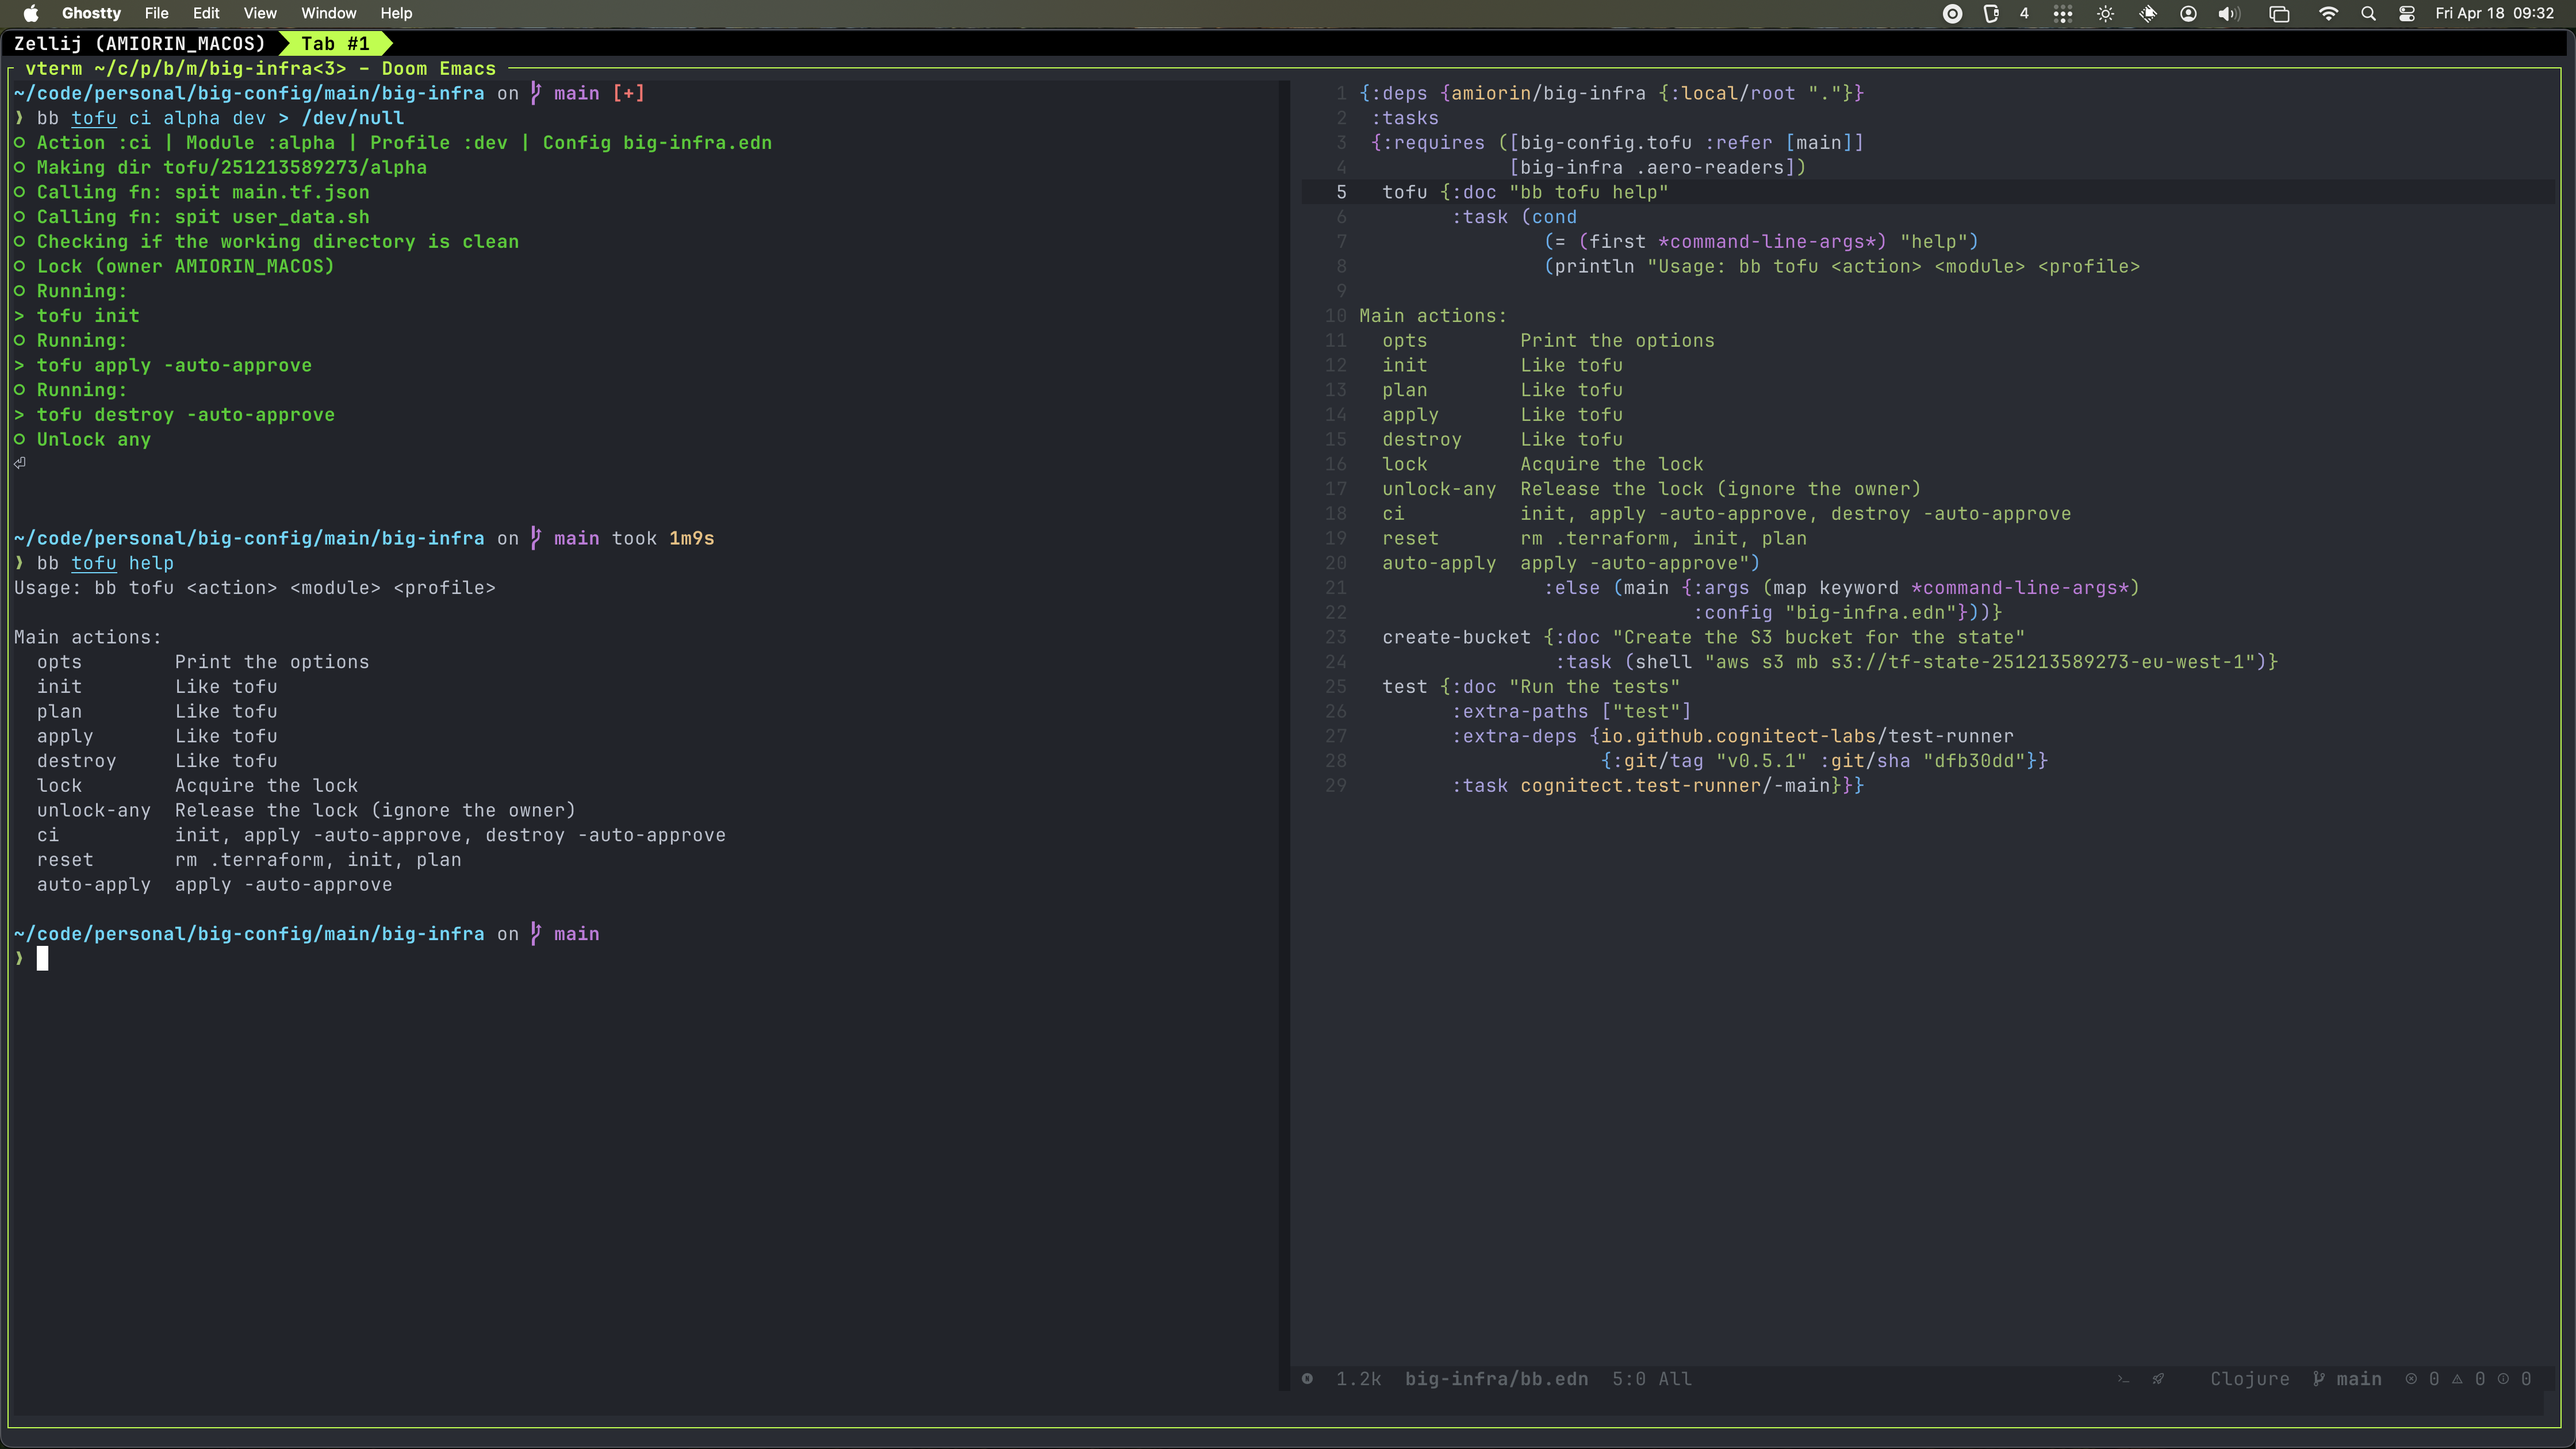
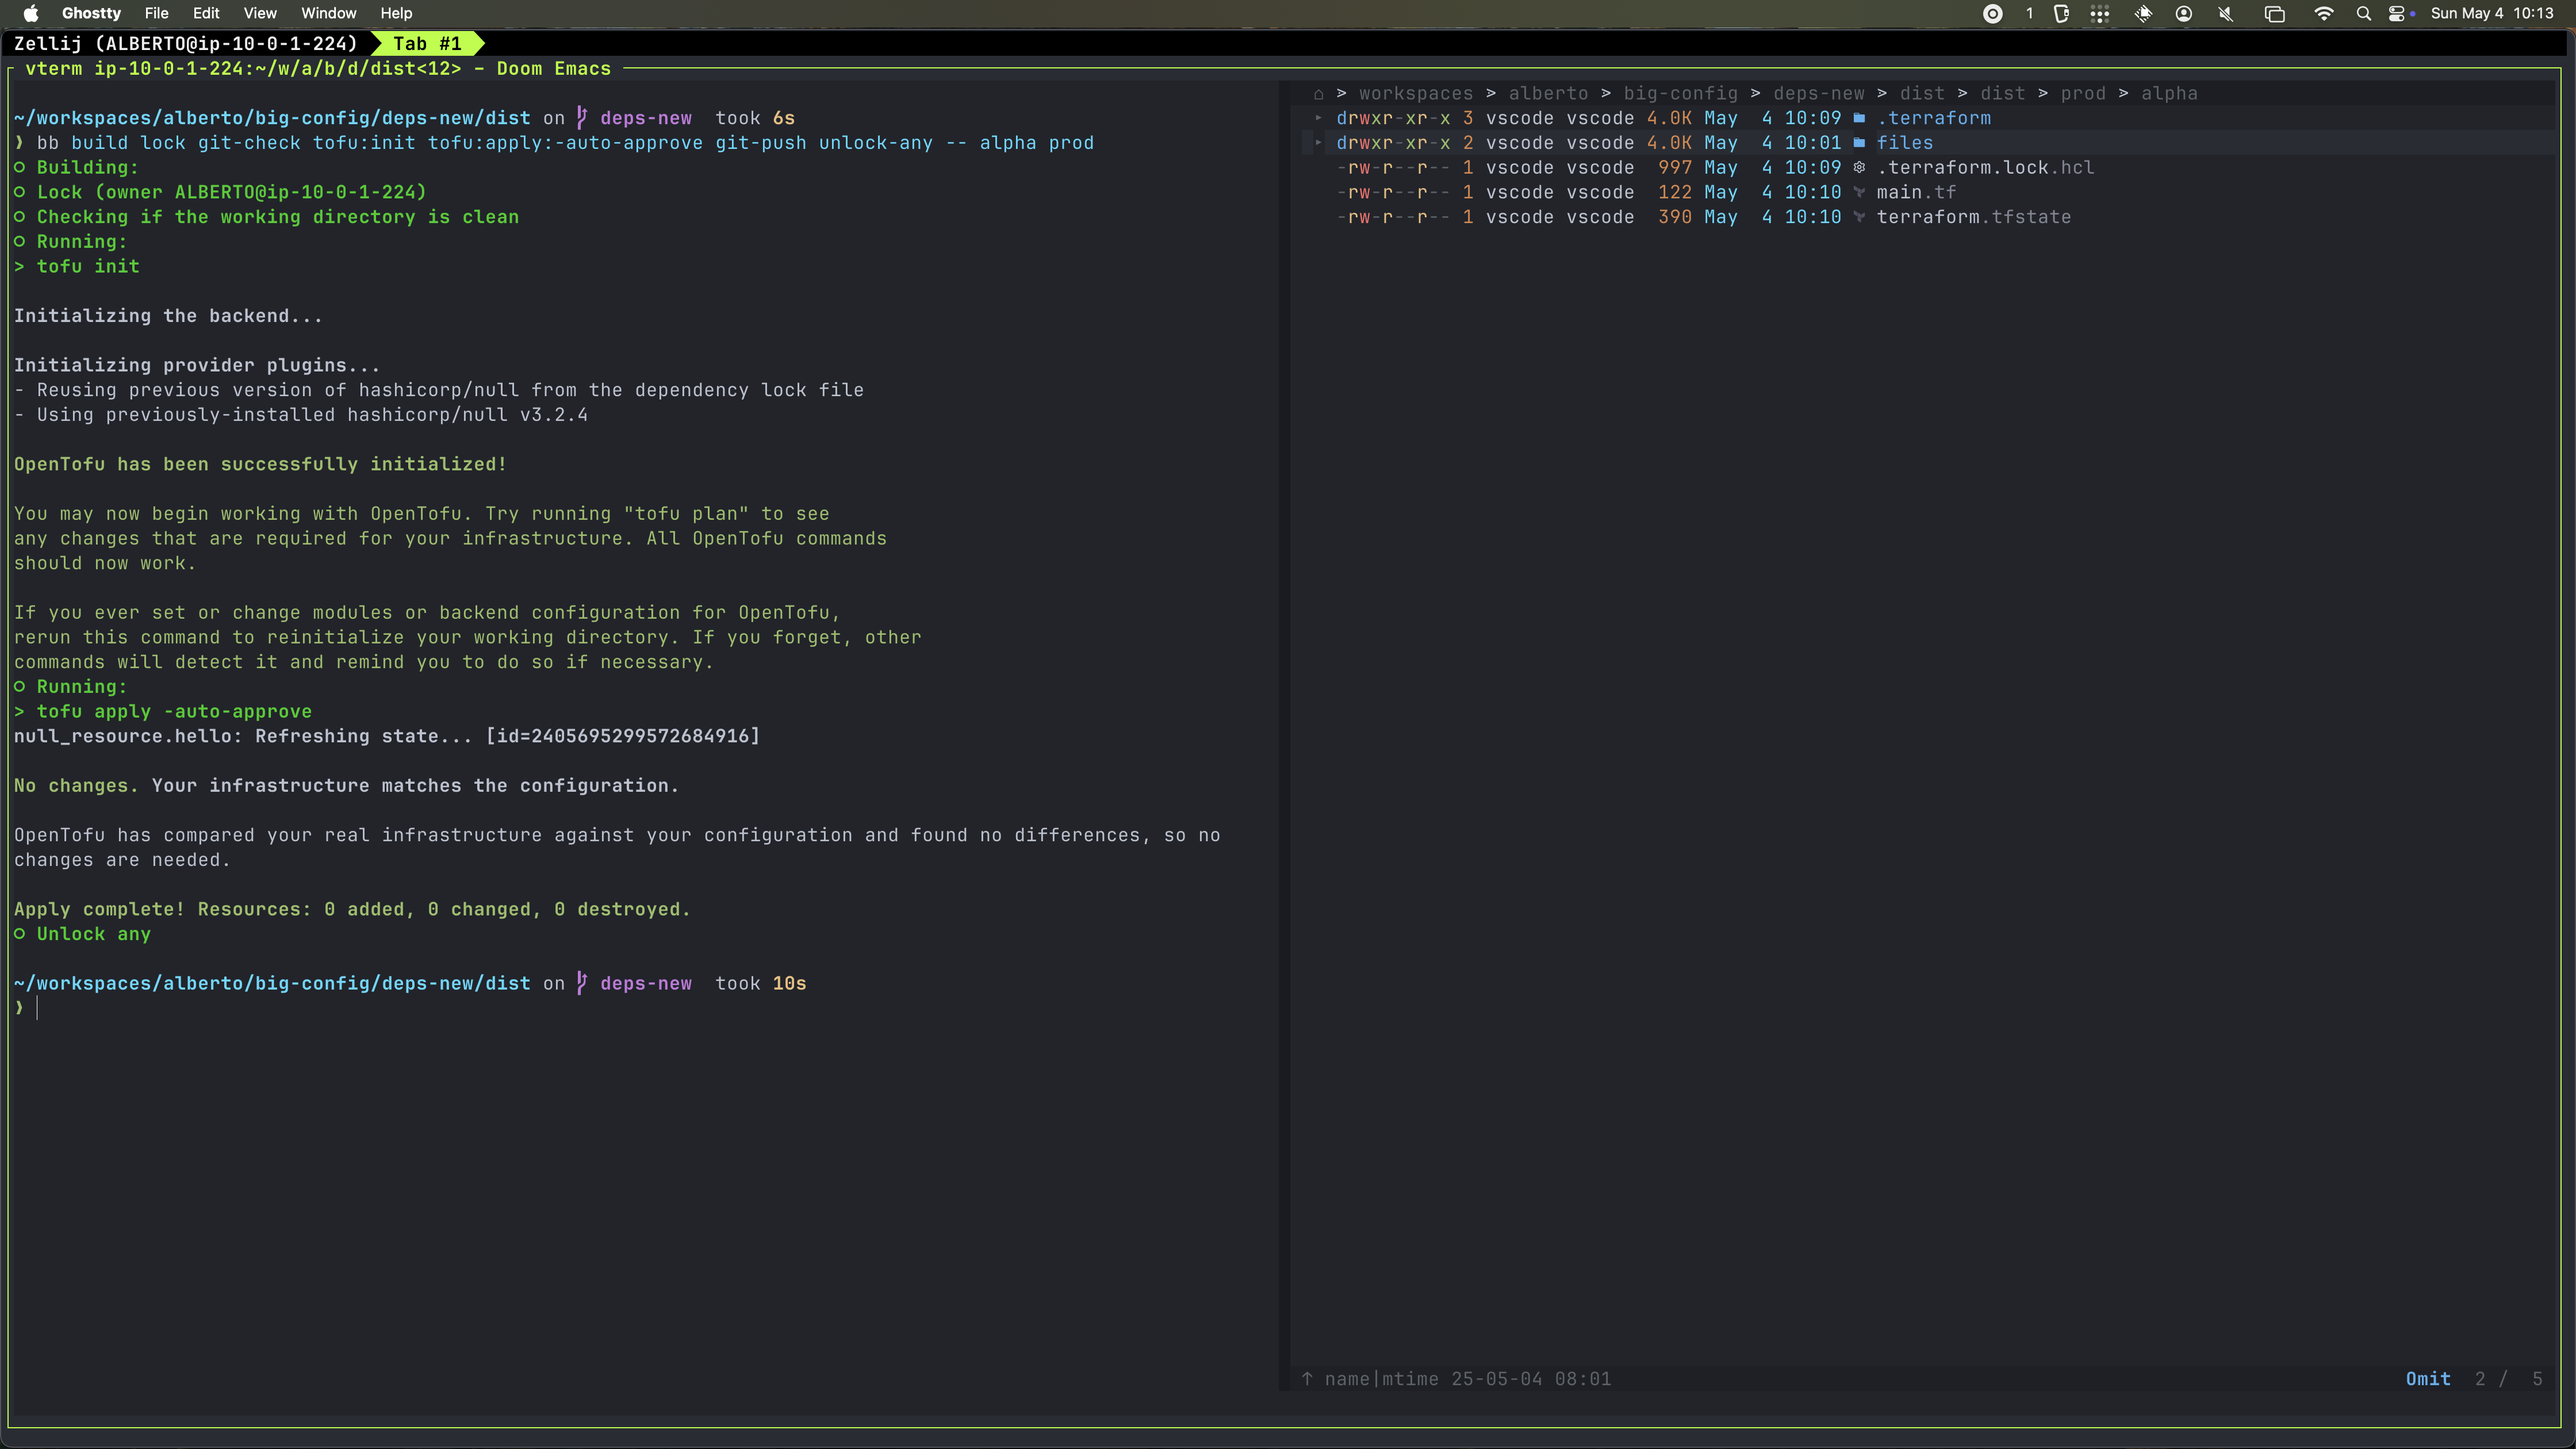
feat: big-config v3

diff --git a/README.md b/README.md
@@ -4,55 +4,52 @@
 
 `big-config` is an alternative to traditional configuration languages, schema languages, and workflow engines for operations. Its goal is to replace solutions like: `atlantis`, `cdk`, `helm`, `hcl`, `jsonschema`, `yaml`, `toml`, `json`, `aws step functions`, `kustomize`, `argocd`, `pkl`, `cud`, `dhall`, `jsonet`, `make`.
 
-At the moment, it can be used to replace `atlantis` and `cdk`.
+It can be used to add a `build` step to any `devops` tool and it provides solutions for common problems in `devops` like `workflow` and `lock`.
 
 ![screenshot](https://raw.githubusercontent.com/amiorin/big-config/main/screenshot.png)
 
 ## Screenshot
-`bb tofu ci alpha dev` is a workflow implemented in `big-config` and invoked using `babashka`. `ci` is the action to trigger the `continuous integration` of the module `alpha`. `alpha` is responsible for creating some AWS resources, and `dev` is the profile used for development.
-
-### Steps executed
-* Load and validate the configuration.
-* Compile the `main.tf.json` (like `cdk`).
-* Check that the working directory is clean.
-* Lock module `alpha` for profile `dev`.
-* Run `tofu init|apply|destroy`.
-* Unlock module `alpha` for profile `dev`.
+`bb build lock git-check tofu:init tofu:apply:-auto-approve git-push unlock-any -- alpha prod` is a workflow defined in the command line using `big-config` and invoked using `babashka`. The `build` step will use `deps-new` to generate the `tofu` module `alpha` with profile `prod`. The `lock` step will acquire a lock to make sure that we are the only one running like `atlantis`. The `git-check` step will make sure that our working directory is clean and not behind `origin`. The `tofu:init` step will run `tofu init` in the `target-dir`. The `tofu:apply:-auto-approve` step will run `tofu apply -auto-approve` in the `target-dir`. The `git-push` step will push our commits. The `unlock-any` step will release the lock.
 
 ### Advantages
-* Compared to `atlantis`, `big-config` enables a faster `inner loop`. Only two accounts are needed, `prod` and `dev`. The `lock` workflow enables developers and CI to share the same AWS account for development and integration. Refactoring the code that generates the configuration files is trivial because of the test for catching `nils` gg in `json` files and because of the test for comparing the previous version for any files with the new version. 
+* Compared to `atlantis`, `big-config` enables a faster `inner loop`. Only two accounts are needed, `prod` and `dev`. The `lock` step enables developers and CI to share the same AWS account for development and integration. Refactoring the code that generates the configuration files is trivial because the `dist` dir is committed and we can track with `git` any change made by mistake in it.
 * Compared to `cdk`, `big-config` supports only `clojure` and `tofu`. The problem of generating `json` files should not be blown out of proportion.
 
 ## Install
-The core idea of `big-config` is that you should not write configuration files manually but you should write the code that generates them and Clojure is the best language for this task. A `deps-new` template is provided to get started.
+The core idea of `big-config` is that you should not write configuration files manually but you should write the code that generates them and Clojure is the best language for this task. A meta `deps-new` template is provided to get started that contains examples for `tofu` and `ansible`.
 
 ``` shell
-clojure -Sdeps '{:deps {io.github.amiorin/big-config {:git/sha "f7aec168e54b453ae74d10a13121a7a7e2bcba1f"}}}' \
-  -Tnew create \
-  :template amiorin/big-config \
-  :name amiorin/big-infra \
-  :aws-account-id 251213589273 \
-  :region eu-west-1 \
-  :overwrite :delete
+clojure -Sdeps '{:deps {io.github.amiorin/big-config {:git/sha "1cb7afa2eeb959a0b30106d4871750713efce2a4"}}}' \
+    -Tnew create \
+    :template amiorin/big-config \
+    :name my-org/my-artifact \
+    :target-dir my-project \
+    :aws-account-id-dev 111111111111 \
+    :aws-account-id-prod 222222222222 \
+    :aws-profile default \
+    :aws-region eu-west-1 \
+    :overwrite :delete
 ```
 
 ``` shell
-cd big-infra
+cd my-project
 
 # List all tasks
 bb tasks
 
-# The main task with multiple subcommands to operate tofu
-bb tofu help
+# How to create workflow in the cli
+bb show-help
 
-# Create the bucket for tofu
-bb create-bucket
+# List the files of module alpha profile prod
+bb build exec -- alpha prod ls -l
 
-# Create 2 SQS and a 1 KMS and destroy them
-bb tofu ci alpha dev
+# List the files of module beta profile prod
+bb build exec -- beta prod ls -l
 
-# The if your code generates tofu tf.json with null or that are different after a refactoring
-bb test
+# List the files of module gamma profile prod
+bb build exec -- gamma prod ls -l
+
+bb test:bb
 ```
 
 ## Workflow
